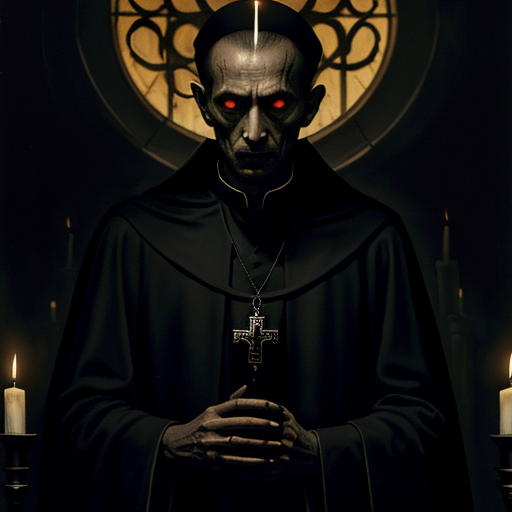
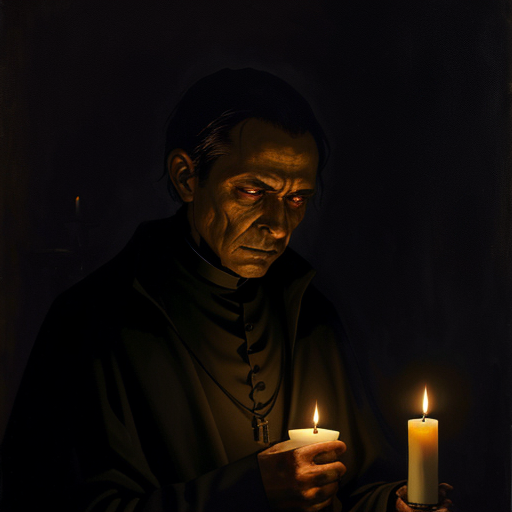
P4-24: sd_sprites redraws any pose per character (redo_states/redo_modes); exorcista priest portrait seed 1210; re-roll settings for the flagged poses
Claude-Session: https://claude.ai/code/session_01Cq1nnfCsSoxUJverGyPeCM

diff --git a/tools/sd_sprites.py b/tools/sd_sprites.py
@@ -286,6 +286,18 @@ def redo_prompt(cfg: dict, manifest: dict, c: dict, sid: str) -> str:
     return cfg["prompt_template"].format(look=look, pose=pose_text, style=cfg.get("style", manifest["style_suffix"]))
 
 
+def redo_states(cfg: dict, c: dict) -> list:
+    """States redrawn as one full-size figure: sheet.redo_states plus the character's own
+    redo_states (a sheet cell that came out wrong, e.g. a lost coat or a failed dead pose)."""
+    out = list(cfg["sheet"].get("redo_states", []))
+    return out + [x for x in c.get("redo_states", []) if x not in out]
+
+
+def redo_mode(st: dict, c: dict, sid: str) -> str:
+    """"txt" draws from pose + portrait only; "img" starts from the sheet cell."""
+    return c.get("redo_modes", {}).get(sid, st.get("redo_mode", "img"))
+
+
 def redo_seed(cfg: dict, c: dict, sid: str) -> int:
     order = [s["id"] for s in cfg["states"]]
     return int(c.get("redo_seeds", {}).get(sid, int(c["seed"]) + order.index(sid)))
@@ -324,7 +336,7 @@ def generate_sheet(pipes, cfg, manifest, c, negative, steps, guidance, control_s
     # guided by the same skeleton and the portrait, then put back into the sheet.
     w, h = cfg["size"]
     states = {s["id"]: s for s in cfg["states"]}
-    for sid in sheet.get("redo_states", []):
+    for sid in redo_states(cfg, c):
         st = states[sid]
         p = redo_prompt(cfg, manifest, c, sid)
         # redo_mode "txt": draw from scratch (pose + portrait only) so the old cell's weapon
@@ -348,7 +360,7 @@ def generate_sheet(pipes, cfg, manifest, c, negative, steps, guidance, control_s
             src = dict(image=[skel, weapon], width=w, height=h)
             pipe = pipes["txt_pose_weapon"]
             scale = [scale, float(cfg["weapon_guide"].get("scale", 0.7))]
-        elif st.get("redo_mode", "img") == "txt":
+        elif redo_mode(st, c, sid) == "txt":
             src = dict(image=skel, width=w, height=h)
             pipe = pipes["txt_pose"]
         else:
@@ -489,7 +501,7 @@ def main() -> int:
             # Only redrawn states asked for (e.g. --states attack) and the raw sheet is cached:
             # reuse it instead of drawing the whole sheet again.
             raw_path = CACHE / f"{cid}_sheet_raw.png"
-            redo_only = bool(args.states) and set(args.states) <= set(cfg["sheet"].get("redo_states", []))
+            redo_only = bool(args.states) and set(args.states) <= set(redo_states(cfg, c))
             raw_sheet = Image.open(raw_path).convert("RGB") if redo_only and raw_path.exists() else None
             neg_c = f'{c["negative_extra"]}, {negative}' if c.get("negative_extra") else negative
             if args.redo_tries and raw_sheet is not None:
@@ -516,7 +528,7 @@ def main() -> int:
                                 cfg["size"][0], cfg["size"][1], cfg["sheet"]["cell"][0], cfg["sheet"]["cell"][1]),
                             "mode": ("img2img from " + ck["redo_init"][sid] + f" (strength {ck.get('redo_init_strength', 0.8)})")
                             if ck.get("redo_init", {}).get(sid)
-                            else ("txt2img" if st.get("redo_mode") == "txt" else "img2img from the sheet cell"),
+                            else ("txt2img" if redo_mode(st, ck, sid) == "txt" else "img2img from the sheet cell"),
                             "pose_control": cfg["control_model"],
                             "weapon_control": cfg.get("weapon_guide", {}).get("control_model")
                             if draw_weapon(cfg, ck, sid, (64, 96)) is not None else None,
@@ -567,10 +579,10 @@ def main() -> int:
                     "generator": "tools/sd_sprites.py (diffusers)",
                     "timestamp": datetime.now(timezone.utc).isoformat(timespec="seconds"),
                 }
-                if sid in cfg["sheet"].get("redo_states", []):
+                if sid in redo_states(cfg, c):
                     meta["redo"] = {
                         "prompt": redo_prompt(cfg, manifest, c, sid), "seed": redo_seed(cfg, c, sid),
-                        "mode": ("txt2img" if next(x for x in cfg["states"] if x["id"] == sid).get("redo_mode") == "txt"
+                        "mode": ("txt2img" if redo_mode(next(x for x in cfg["states"] if x["id"] == sid), c, sid) == "txt"
                                  else "img2img from the sheet cell") + " + openpose + portrait",
                         "strength": float(next(x for x in cfg["states"] if x["id"] == sid).get("redo_strength", 0.75)),
                     }
